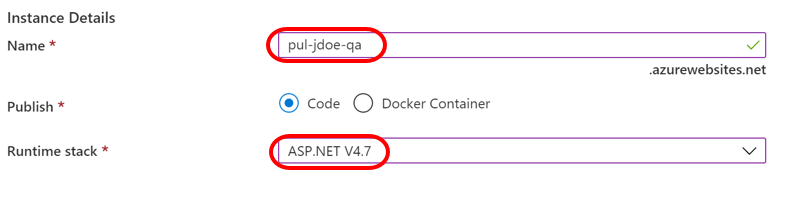
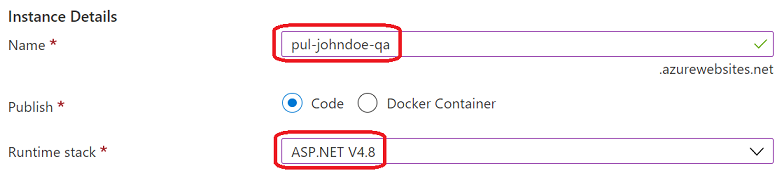
Reflecting UI changes in screenshots and instructions (#475)
* Updated instructions to reflect Framework and UI changes

Replaced ASP.NET Version 4.7 reference to 4.8 as 4.7 is not supported anymore. Also removed reference to "Allow other resources to access this server" as this is not being configured at this time/location anymore. Added instructions to configure this later. Will replace files to reflect these changes in screenshots as well.

* Replace with latest UI

SQL server allow access is not configurable at deployment time

* Delete 007.png

* Add files via upload

* Delete 007.png

* Delete 014.png

* Reflecting UI changes

diff --git a/labs/azuredevops/continuousdeployment/readme.md b/labs/azuredevops/continuousdeployment/readme.md
@@ -58,7 +58,7 @@ In this lab, you will learn about the release management features available in A
 
     ![](images/005.png)
 
-1. Enter a unique name for **Server name**, such as by including your name. Enter an admin username and password you can remember. Note that **"P2ssw0rd"** meets the password requirements. Enable **Allow Azure services to access server**. Click **OK** to confirm these options.
+1. Enter a unique name for **Server name**, such as by including your name. Enter an admin username and password you can remember. Note that **"P2ssw0rd"** meets the password requirements. Click **OK** to confirm these options.
 
     ![](images/007.png)
 
@@ -86,7 +86,7 @@ In this lab, you will learn about the release management features available in A
 
     ![](images/013.png)
 
-1. For **Name**, enter a unique name, such as by using your name as part. Since this will be for our QA deployment, append the name with **"-qa"**. Select the **ASP.NET 4.7 Runtime stack**.
+1. For **Name**, enter a unique name, such as by using your name as part. Since this will be for our QA deployment, append the name with **"-qa"**. Select the **ASP.NET 4.8 Runtime stack**.
 
     ![](images/014.png)
 
@@ -102,7 +102,19 @@ In this lab, you will learn about the release management features available in A
 
     ![](images/017.png)
 
-1. It may take a few minutes for all of your new Azure resources to become available, so continue on to the next task. Leave this browser tab open for later.
+1. While the Azure resources are created, go ahead and configure the SQL server.
+
+1. Click the **Resource groups** tab from the left menu. Locate and click the **partsunlimited** group.
+
+1. Click the SQL server resource created earlier.
+
+1. Select the **Firewalls and virtual networks** tab from the **Security** section.
+
+1. Set **"Allow Azure services and resources to access this server"** to **Yes** to allow the App Services to access this SQL server.
+
+1. Click **Save** on the top of the tab.
+
+1. Continue on to the next task. Leave this browser tab open for later.
 
 <a name="Ex1Task2"></a>
 ### Task 2: Creating a continuous release to the QA stage ###
